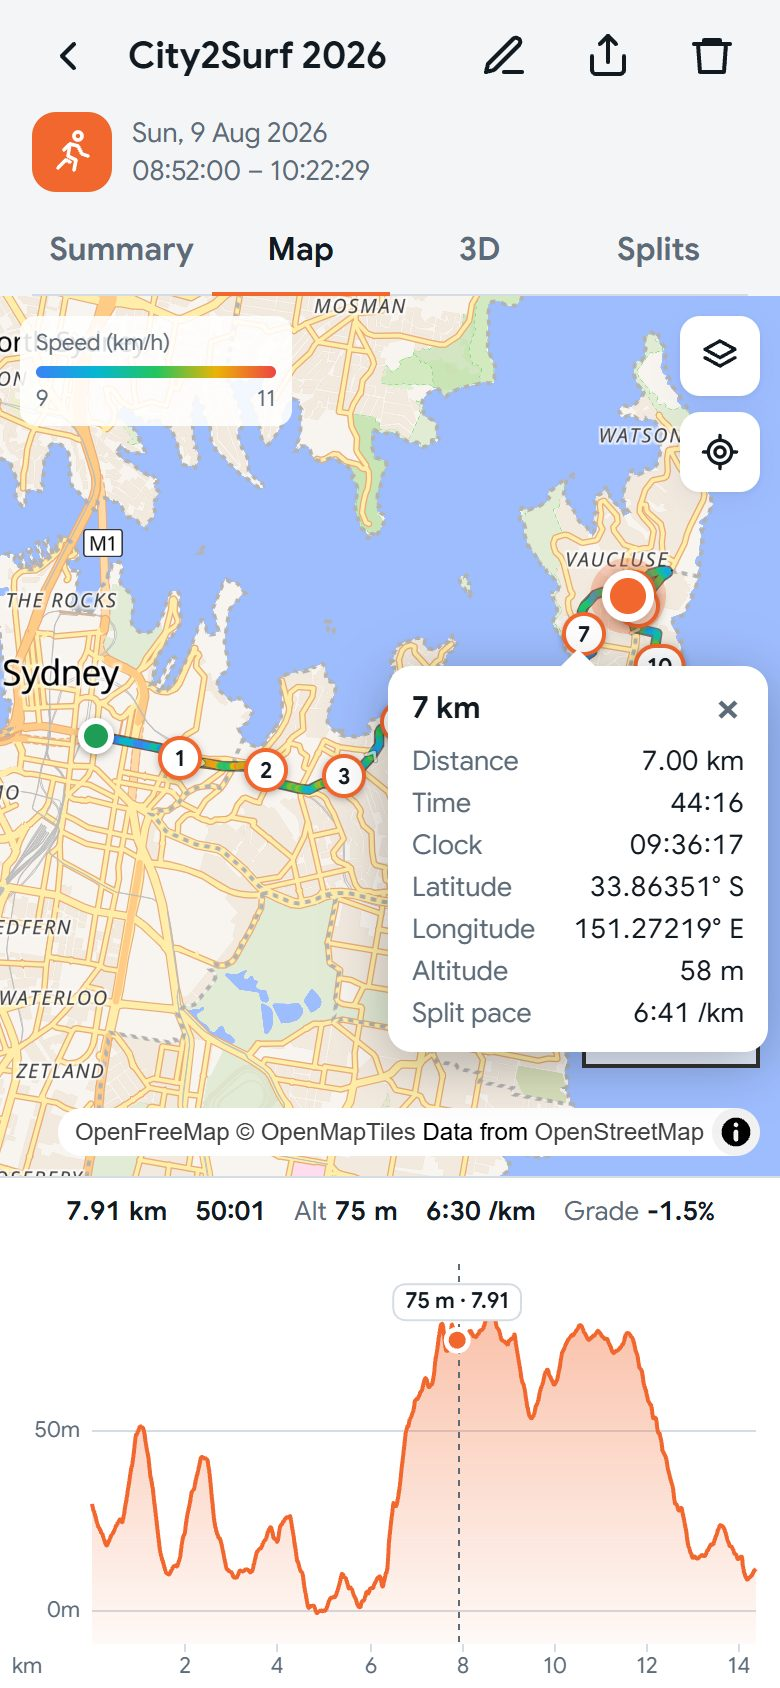
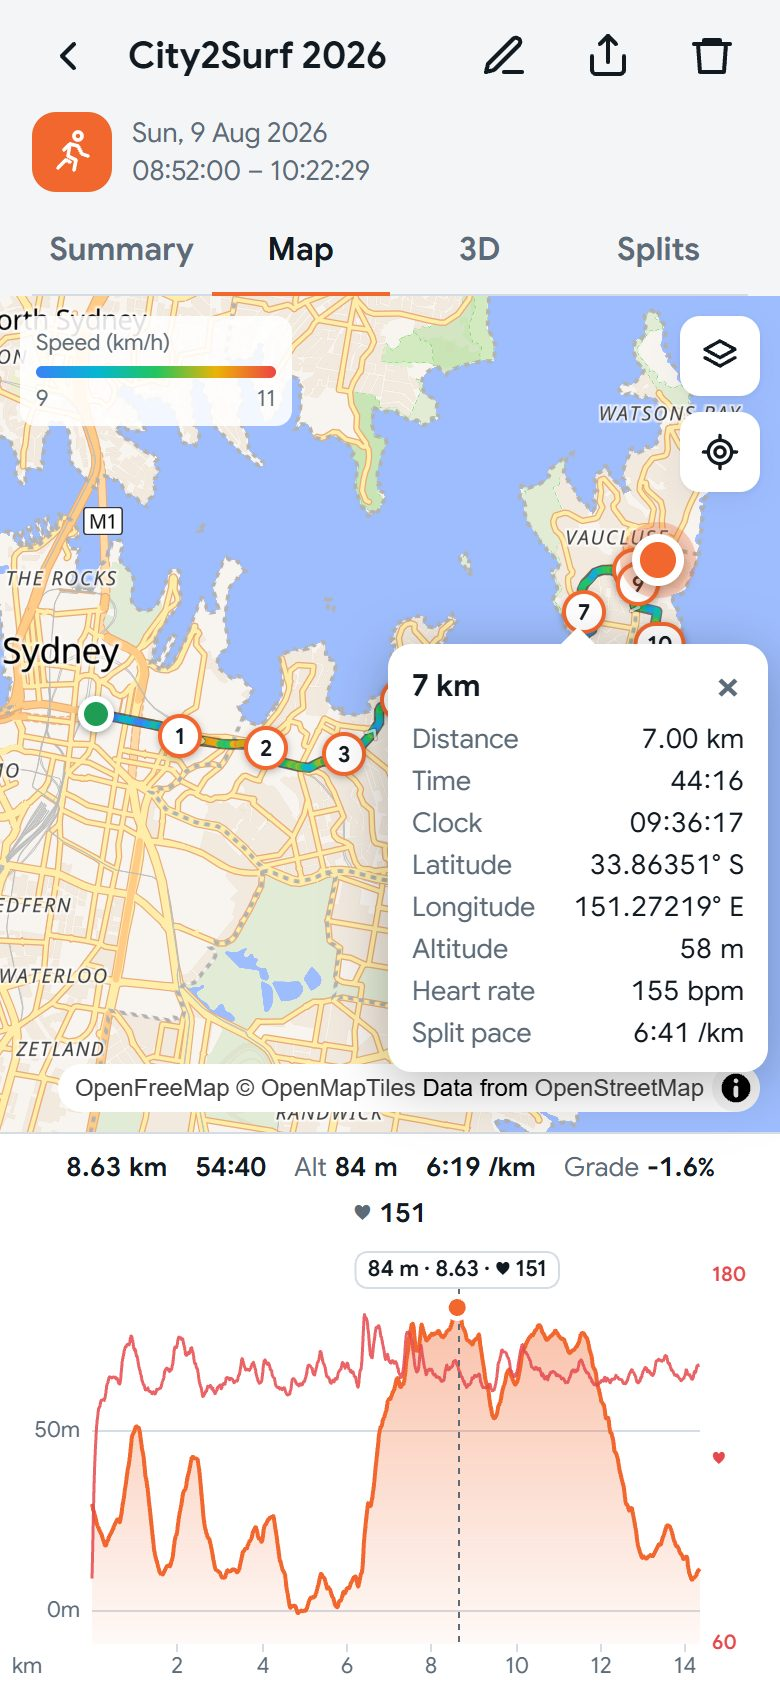
README with watch and heart-rate screenshots; watch demo mode
- README: effort (heart rate, calories, cardio load, zones) and Pixel Watch
  screenshots (home and workout), refreshed phone screenshots with heart
  rate, intro mentions the Wear OS companion
- Wear: debug-only demo mode (`--ez demo true`) that shows sample workout
  data for screenshots without contacting the phone or starting sensors
- PLAN.md: post-v1 additions and verification status

diff --git a/android/wear/src/main/java/app/locale/exercisetracker/wear/MainActivity.kt b/android/wear/src/main/java/app/locale/exercisetracker/wear/MainActivity.kt
@@ -14,6 +14,8 @@ class MainActivity : ComponentActivity() {
     companion object {
         /** Set by the tile's "Start" button. */
         const val EXTRA_START_ACTIVITY = "start"
+        /** Debug builds: `adb shell am start ... --ez demo true` shows sample workout data. */
+        const val EXTRA_DEMO = "demo"
     }
 
     private var afterPermissions: (() -> Unit)? = null
@@ -25,6 +27,7 @@ class MainActivity : ComponentActivity() {
 
     override fun onCreate(savedInstanceState: Bundle?) {
         super.onCreate(savedInstanceState)
+        if (BuildConfig.DEBUG && intent?.getBooleanExtra(EXTRA_DEMO, false) == true) PhoneLink.enterDemo()
         setContent {
             LocaleWearApp(
                 onStart = ::startWorkout,
@@ -44,6 +47,7 @@ class MainActivity : ComponentActivity() {
 
     override fun onResume() {
         super.onResume()
+        if (PhoneLink.demo) return
         send("/locale/status-request")
         // Foreground is the reliable moment to (re)start heart rate for a phone-started workout.
         HeartRateService.sync(this, PhoneLink.status.value)
@@ -81,6 +85,7 @@ class MainActivity : ComponentActivity() {
     }
 
     private fun send(path: String) {
+        if (PhoneLink.demo) return
         lifecycleScope.launch { PhoneLink.send(this@MainActivity, path) }
     }
 }

diff --git a/android/wear/src/main/java/app/locale/exercisetracker/wear/PhoneLink.kt b/android/wear/src/main/java/app/locale/exercisetracker/wear/PhoneLink.kt
@@ -43,6 +43,25 @@ object PhoneLink {
 
     @Volatile private var pendingStartAt = 0L
 
+    /** Debug builds only: show sample data for screenshots; ignores the phone and sensors. */
+    @Volatile var demo = false
+        private set
+
+    fun enterDemo() {
+        demo = true
+        status.value = PhoneStatus(
+            state = "recording",
+            workoutId = "demo",
+            activity = "run",
+            elapsedMs = 47 * 60_000L + 15_000L,
+            receivedAt = SystemClock.elapsedRealtime(),
+            distance = 7470.0,
+            speed = 2.56,
+        )
+        heartRate.value = 158
+        phoneReachable.value = true
+    }
+
     fun markStartRequested() {
         pendingStartAt = SystemClock.elapsedRealtime()
     }
@@ -76,6 +95,7 @@ object PhoneLink {
     }
 
     fun onStatus(ctx: Context, json: JSONObject) {
+        if (demo) return
         val next = PhoneStatus(
             state = json.optString("state", "idle"),
             workoutId = json.optString("workoutId").ifEmpty { null },

diff --git a/README.md b/README.md
@@ -1,9 +1,11 @@
 # Locale Exercise Tracker
 
 Locale is a GPS workout tracker for Android 16+ covering **walking, running, cycling and
-snow skiing**. It records reliably in the background with the screen off. Afterwards you
-can review each workout as stats, splits, an interactive map with an elevation side view,
-or a 3D plot over satellite imagery.
+snow skiing**. It records reliably in the background with the screen off. A **Wear OS
+companion** lets you start and stop workouts from your watch and adds live heart rate.
+Afterwards you can review each workout as stats, heart-rate effort (calories, cardio load,
+zones), splits, an interactive map with an elevation side view, or a 3D plot over
+satellite imagery.
 
 The app is written in HTML5, vanilla JavaScript and CSS3, and packaged with
 [Capacitor](https://capacitorjs.com/). A small Java plugin handles background GPS and
@@ -12,21 +14,29 @@ sensors.
 <p align="center">
   <img src="docs/screenshots/home.png" width="250" alt="Home screen with activity tiles and the City2Surf sample workout">
   &nbsp;
-  <img src="docs/screenshots/live.png" width="250" alt="Live workout screen showing elapsed time, distance, pace, heading, altitude and location">
+  <img src="docs/screenshots/live.png" width="250" alt="Live workout screen with elapsed time, heart rate, distance, pace, heading, altitude and location">
   &nbsp;
   <img src="docs/screenshots/summary.png" width="250" alt="Workout summary with distance, times, speed, pace, climb and altitude">
 </p>
 <p align="center">
-  <img src="docs/screenshots/map.jpeg" width="250" alt="Map view with speed-coloured route, distance marker popover and linked elevation profile">
+  <img src="docs/screenshots/effort.png" width="250" alt="Effort: average and max heart rate, calories, cardio load and time in heart-rate zones">
+  &nbsp;
+  <img src="docs/screenshots/map.jpeg" width="250" alt="Map view with speed-coloured route, distance marker popover, and elevation profile with heart-rate line">
   &nbsp;
   <img src="docs/screenshots/3d.jpeg" width="250" alt="3D route over satellite imagery with exaggerated altitude">
+</p>
+<p align="center">
+  <img src="docs/screenshots/splits.png" width="250" alt="Per-kilometre splits with pace, elevation change, heart rate and time">
   &nbsp;
-  <img src="docs/screenshots/splits.png" width="250" alt="Per-kilometre splits with pace, elevation change and time">
+  <img src="docs/screenshots/watch-home.png" width="200" alt="Pixel Watch: Locale start screen with Start Run and Start Walk">
+  &nbsp;
+  <img src="docs/screenshots/watch-workout.png" width="200" alt="Pixel Watch: workout in progress with elapsed time, distance, pace, heart rate, pause and stop">
 </p>
 
-<sub>The screenshots show the built-in sample workout, a simulated run of the Sydney
-City2Surf (Hyde Park to Bondi via Heartbreak Hill at 6:18/km). It is generated from the
-course map and is not a real recording.</sub>
+<sub>The phone screenshots show the built-in sample workout, a simulated run of the Sydney
+City2Surf (Hyde Park to Bondi via Heartbreak Hill at 6:18/km, with simulated heart rate).
+It is generated from the course map and is not a real recording. The watch screenshots
+are from a Pixel Watch 3; the workout screen uses the debug build's demo mode.</sub>
 
 ## Features
 

diff --git a/PLAN.md b/PLAN.md
@@ -406,3 +406,23 @@ Verified so far:
 
 **Not yet verified on an emulator or device** (no AVD installed). The M1/M2
 "done when" criteria still need real-device runs.
+
+## 16. Post-v1 additions (October 2026)
+
+- **3D satellite ground** (Esri World Imagery): see §15.
+- **Wear OS companion** (`android/wear`, Kotlin + Compose for Wear OS, Wear OS 5+). It
+  starts, pauses and stops phone workouts over the Wearable Data Layer, has a tile and an
+  ongoing activity, and streams Health Services heart rate to the phone.
+  - Starting while the phone app is in the background needs location "Allow all the
+    time" and no battery optimisation. Otherwise the phone shows a one-tap start
+    notification.
+  - The module is pinned to Wear Compose 1.6 / Compose 1.10, because newer versions
+    require AGP 9.1 and Capacitor uses AGP 8.13.
+- **Heart-rate analysis** (`src/stats/physio.js`):
+  - zones on % heart-rate reserve
+  - Banister TRIMP cardio load
+  - Keytel (2005) calories, with an ACSM/MET fallback
+  - Needs a profile (sex, birth year, weight) in Settings.
+- Verified on a Pixel 10a (Android 17) and Pixel Watch 3 (Android 17): install, launch,
+  watch↔phone messaging, permissions. A full outdoor workout with live heart rate is still
+  to be confirmed.
